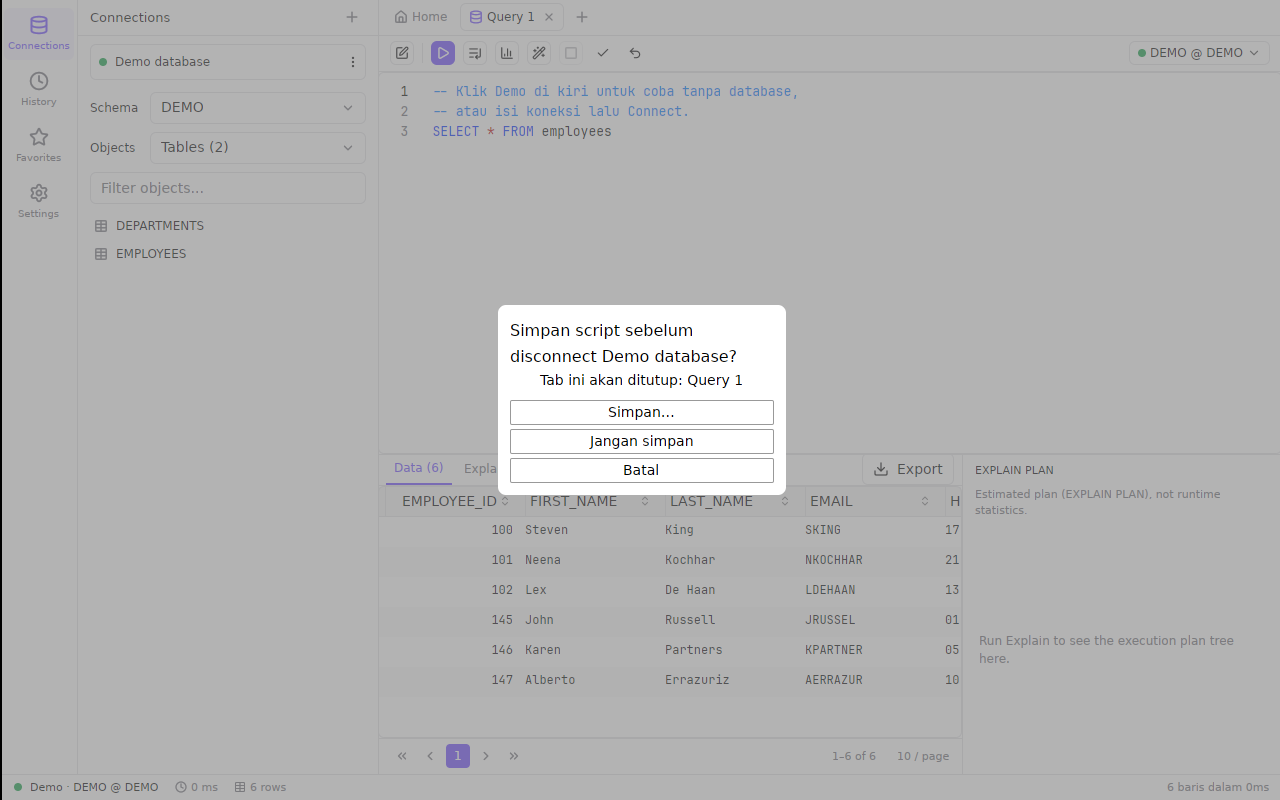
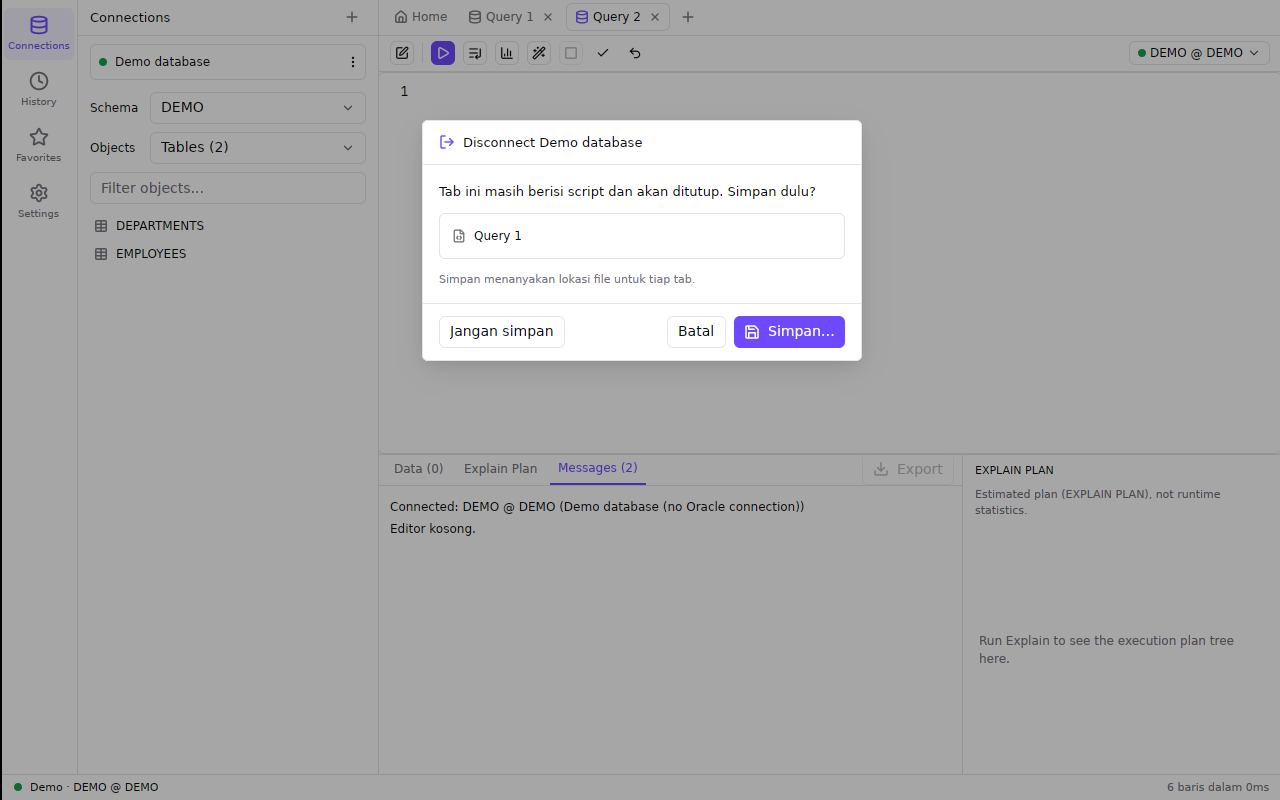
feat(app): in-app dialog for saving scripts on disconnect
Replaces the platform prompt (an unstyled fallback on Linux) with a
modal in the app's own style that lists the SQL tabs about to close.

Claude-Session: https://claude.ai/code/session_01VYjtnMdzYu7dyrvX113PeE

diff --git a/crates/app/src/workbench/conns.rs b/crates/app/src/workbench/conns.rs
@@ -13,6 +13,14 @@
 
 use super::*;
 
+/// The "save scripts before disconnect?" dialog: which connection, and
+/// the SQL tabs (id, title) that would be closed with text in them.
+pub(super) struct DisconnectPrompt {
+    id: u64,
+    label: String,
+    scripts: Vec<(u64, String)>,
+}
+
 impl Workbench {
     /// Connections that are connected (or connecting), active one included.
     pub(super) fn open_conn_count(&self) -> usize {
@@ -436,12 +444,13 @@ impl Workbench {
 
 impl Workbench {
     /// Disconnect from the UI: close connection `id` together with its
-    /// tabs. SQL tabs that hold text are offered for saving first (Save
-    /// asks for a file per tab; Cancel at any point keeps the connection).
+    /// tabs. When SQL tabs hold text, a dialog first offers to save them
+    /// (Save asks for a file per tab; Cancel at any point keeps the
+    /// connection).
     pub(super) fn request_disconnect(
         &mut self,
         id: u64,
-        window: &mut Window,
+        _window: &mut Window,
         cx: &mut Context<Self>,
     ) {
         let scripts: Vec<(u64, String)> = self
@@ -456,27 +465,24 @@ impl Workbench {
             return;
         }
         let label = self.conn_by_id(id).map_or_else(String::new, |c| c.label());
-        let names = scripts
-            .iter()
-            .map(|(_, title)| title.as_str())
-            .collect::<Vec<_>>()
-            .join(", ");
-        let answer = window.prompt(
-            gpui_kit::PromptLevel::Warning,
-            &format!("Simpan script sebelum disconnect {label}?"),
-            Some(&format!("Tab ini akan ditutup: {names}")),
-            &["Simpan…", "Jangan simpan", "Batal"],
-            cx,
-        );
+        self.disconnect_prompt = Some(DisconnectPrompt { id, label, scripts });
+        cx.notify();
+    }
+
+    fn close_disconnect_prompt(&mut self, cx: &mut Context<Self>) {
+        self.disconnect_prompt = None;
+        cx.notify();
+    }
+
+    /// Dialog answer "Simpan…": save each script tab to a file the user
+    /// picks, then disconnect. Cancelling a file dialog stops there and
+    /// keeps the connection.
+    fn save_scripts_then_disconnect(&mut self, cx: &mut Context<Self>) {
+        let Some(DisconnectPrompt { id, scripts, .. }) = self.disconnect_prompt.take() else {
+            return;
+        };
+        cx.notify();
         cx.spawn(async move |view, cx| {
-            match answer.await {
-                Ok(0) => {}
-                Ok(1) => {
-                    let _ = view.update(cx, |this, cx| this.finish_disconnect(id, cx));
-                    return;
-                }
-                _ => return,
-            }
             for (tab_id, _) in scripts {
                 let request = view.update(cx, |this, cx| {
                     let tab = this.tabs.iter().find(|t| t.id == tab_id)?;
@@ -515,6 +521,164 @@ impl Workbench {
             let _ = view.update(cx, |this, cx| this.finish_disconnect(id, cx));
         })
         .detach();
+    }
+
+    /// Dialog answer "Jangan simpan": disconnect and drop the scripts.
+    fn discard_scripts_then_disconnect(&mut self, cx: &mut Context<Self>) {
+        if let Some(prompt) = self.disconnect_prompt.take() {
+            self.finish_disconnect(prompt.id, cx);
+        }
+    }
+
+    pub(super) fn render_disconnect_prompt(
+        &self,
+        theme: &gpui_kit::component::Theme,
+        cx: &mut Context<Self>,
+    ) -> impl IntoElement {
+        let Some(prompt) = self.disconnect_prompt.as_ref() else {
+            return div().into_any_element();
+        };
+        let count = prompt.scripts.len();
+        let mut list = div()
+            .flex()
+            .flex_col()
+            .gap(px(SPACE_1))
+            .p(px(SPACE_2))
+            .rounded(px(RADIUS_MD))
+            .border_1()
+            .border_color(theme.border)
+            .bg(theme.background);
+        for (_, title) in &prompt.scripts {
+            list = list.child(
+                div()
+                    .flex()
+                    .flex_row()
+                    .items_center()
+                    .gap(px(SPACE_2))
+                    .h(px(TREE_ROW_HEIGHT))
+                    .px(px(SPACE_1))
+                    .child(icon(IconName::FileCode, 14., theme.muted_foreground))
+                    .child(
+                        div()
+                            .min_w(px(0.))
+                            .truncate()
+                            .text_size(px(FONT_LABEL))
+                            .line_height(px(LEADING_LABEL))
+                            .text_color(theme.foreground)
+                            .child(title.clone()),
+                    ),
+            );
+        }
+        let card = div()
+            .id("disconnect-prompt")
+            .flex()
+            .flex_col()
+            .w(px(440.))
+            .rounded(px(RADIUS_MD))
+            .border_1()
+            .border_color(theme.border)
+            .bg(theme.popover)
+            .shadow_lg()
+            .on_key_down(cx.listener(|this, event: &gpui_kit::KeyDownEvent, _, cx| {
+                if event.keystroke.key == "escape" {
+                    this.close_disconnect_prompt(cx);
+                }
+            }))
+            .child(
+                div()
+                    .flex()
+                    .flex_row()
+                    .items_center()
+                    .gap(px(SPACE_2))
+                    .px(px(SPACE_4))
+                    .h(px(44.))
+                    .border_b_1()
+                    .border_color(theme.border)
+                    .child(icon(IconName::LogOut, 16., theme.primary))
+                    .child(
+                        div()
+                            .flex_1()
+                            .min_w(px(0.))
+                            .truncate()
+                            .text_size(px(FONT_BODY))
+                            .font_weight(FontWeight::SEMIBOLD)
+                            .text_color(theme.foreground)
+                            .child(format!("Disconnect {}", prompt.label)),
+                    ),
+            )
+            .child(
+                div()
+                    .flex()
+                    .flex_col()
+                    .gap(px(SPACE_3))
+                    .p(px(SPACE_4))
+                    .child(
+                        div()
+                            .text_size(px(FONT_BODY))
+                            .line_height(px(LEADING_BODY))
+                            .text_color(theme.foreground)
+                            .child(if count == 1 {
+                                "Tab ini masih berisi script dan akan ditutup. Simpan dulu?"
+                                    .to_string()
+                            } else {
+                                format!(
+                                    "{count} tab ini masih berisi script dan akan ditutup. Simpan dulu?"
+                                )
+                            }),
+                    )
+                    .child(list)
+                    .child(caption_text(
+                        "Simpan menanyakan lokasi file untuk tiap tab.".to_string(),
+                        theme,
+                    )),
+            )
+            .child(
+                div()
+                    .flex()
+                    .flex_row()
+                    .items_center()
+                    .gap(px(SPACE_2))
+                    .px(px(SPACE_4))
+                    .py(px(SPACE_3))
+                    .border_t_1()
+                    .border_color(theme.border)
+                    .child(
+                        Button::new("disconnect-discard")
+                            .label("Jangan simpan")
+                            .on_click(cx.listener(|this, _, _, cx| {
+                                this.discard_scripts_then_disconnect(cx)
+                            })),
+                    )
+                    .child(div().flex_1())
+                    .child(
+                        Button::new("disconnect-cancel")
+                            .label("Batal")
+                            .on_click(cx.listener(|this, _, _, cx| this.close_disconnect_prompt(cx))),
+                    )
+                    .child(
+                        Button::new("disconnect-save")
+                            .label("Simpan…")
+                            .icon(IconName::Save)
+                            .primary()
+                            .on_click(cx.listener(|this, _, _, cx| {
+                                this.save_scripts_then_disconnect(cx)
+                            })),
+                    ),
+            );
+        div()
+            .id("disconnect-prompt-scrim")
+            .absolute()
+            .top_0()
+            .left_0()
+            .size_full()
+            .flex()
+            .flex_col()
+            .items_center()
+            .pt(px(120.))
+            .bg(gpui_kit::hsla(0., 0., 0., 0.35))
+            .occlude()
+            .child(card)
+            .into_any_element()
     }
 
     /// Close connection `id` (if still open) and every tab bound to it.

diff --git a/crates/app/src/workbench.rs b/crates/app/src/workbench.rs
@@ -387,6 +387,8 @@ pub struct Workbench {
     quick_open: Option<QuickOpen>,
     /// The cell edit dialog, while it is showing.
     cell_editor: Option<CellEditor>,
+    /// "Save scripts before disconnect?" dialog, while it is showing.
+    disconnect_prompt: Option<conns::DisconnectPrompt>,
     /// The Info panel under data / script tabs is folded to its header.
     info_collapsed: bool,
     /// Keeps shortcuts (Quick Open, Run) working when no input has focus.
@@ -488,6 +490,7 @@ impl Workbench {
             object_scroll: UniformListScrollHandle::new(),
             quick_open: None,
             cell_editor: None,
+            disconnect_prompt: None,
             info_collapsed: false,
             focus_handle: cx.focus_handle(),
             tree_filter: String::new(),
@@ -4772,6 +4775,9 @@ impl Render for Workbench {
             })
             .when(self.cell_editor.is_some(), |this| {
                 this.child(self.render_cell_editor(&theme, cx))
+            })
+            .when(self.disconnect_prompt.is_some(), |this| {
+                this.child(self.render_disconnect_prompt(&theme, cx))
             })
     }
 }
